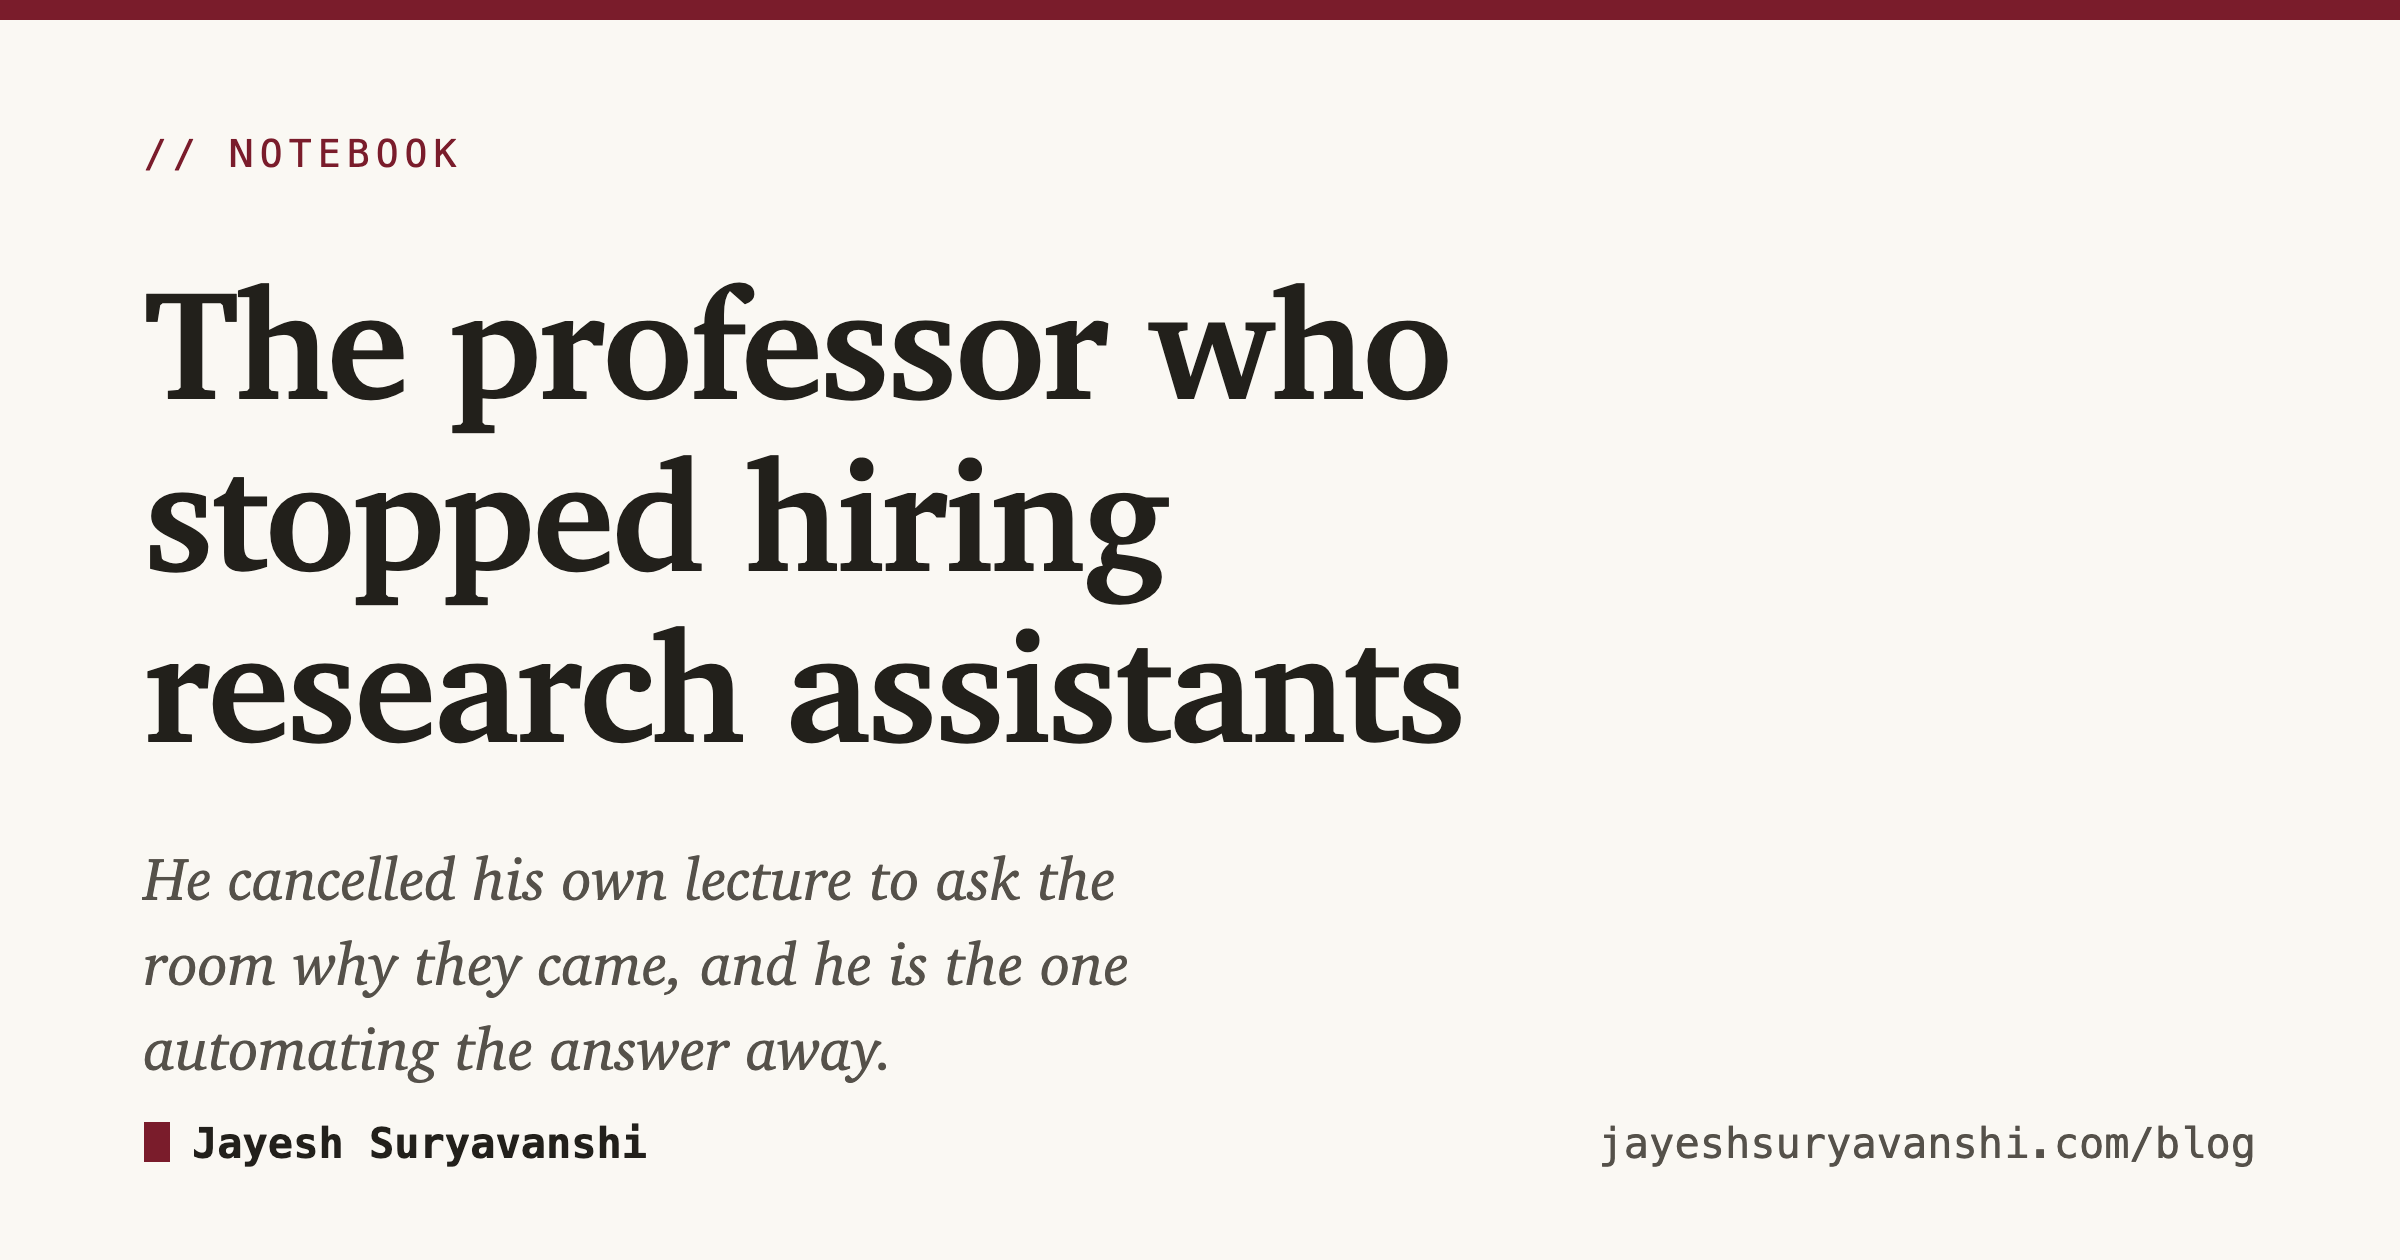
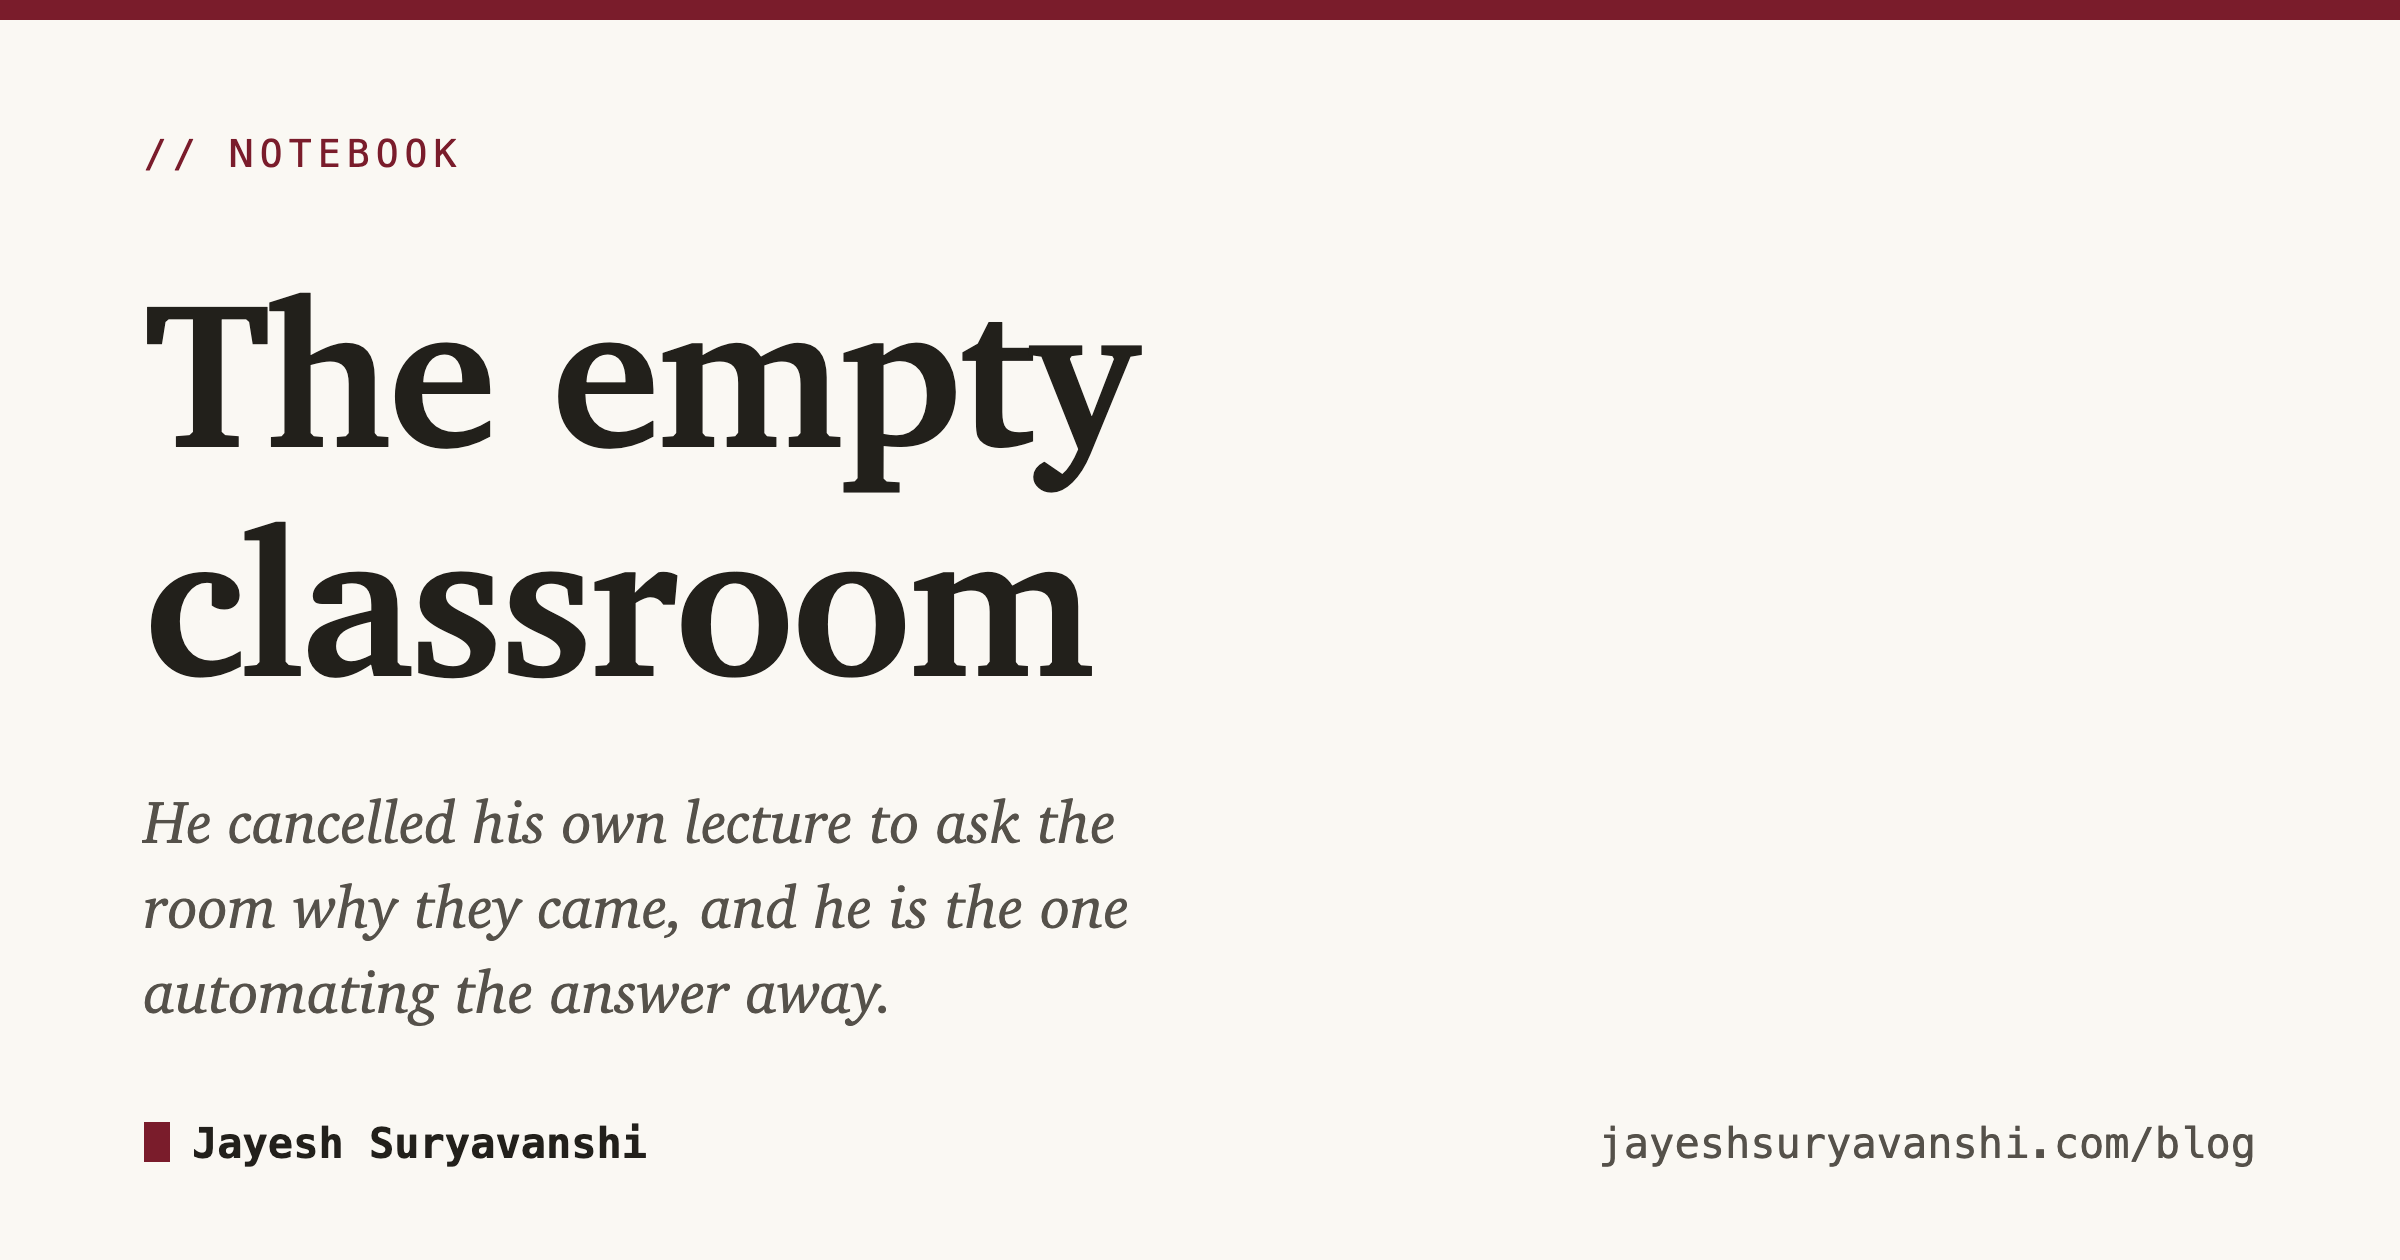
Writing: retitle the Notebook post to The empty classroom
Swaps h1, page title, og/twitter tags, schema headline, index card and
both feed entries, and re-renders the share card. The URL slug stays as
it is so the published link and feed guids keep working.

Changed region(s): [[0.0625, 0.2167, 0.625, 0.5881], [0.0625, 0.619, 0.4688, 0.8667]]

diff --git a/blog/stopped-hiring-research-assistants.html b/blog/stopped-hiring-research-assistants.html
@@ -2,7 +2,7 @@
 <html lang="en">
 <head>
   <meta charset="utf-8">
-  <title>The professor who stopped hiring research assistants · Jayesh Suryavanshi</title>
+  <title>The empty classroom · Jayesh Suryavanshi</title>
   <meta name="description" content="A deep learning professor at IISc Bangalore put down his prepared lecture and spent the hour asking his students why they still come to class. He is also the one automating the answer away: no more research assistants, his own learning moved to an LLM, and a skill on his company's marketplace built to teach in his voice.">
   <meta name="author" content="Jayesh Suryavanshi">
   <link rel="canonical" href="https://www.jayeshsuryavanshi.com/blog/stopped-hiring-research-assistants.html">
@@ -10,18 +10,18 @@
   <meta property="og:type" content="article">
   <meta property="og:url" content="https://www.jayeshsuryavanshi.com/blog/stopped-hiring-research-assistants.html">
   <meta property="og:site_name" content="Jayesh Suryavanshi">
-  <meta property="og:title" content="The professor who stopped hiring research assistants">
+  <meta property="og:title" content="The empty classroom">
   <meta property="og:description" content="A professor cancels his own lecture to ask his class why they came, and turns out to be the one automating the answer away. Why the alarm is worth more coming from the people building it, not less.">
   <meta property="og:image" content="https://www.jayeshsuryavanshi.com/images/og-research-assistants.png">
   <meta property="og:image:width" content="2400">
   <meta property="og:image:height" content="1260">
-  <meta property="og:image:alt" content="The professor who stopped hiring research assistants, a notebook entry by Jayesh Suryavanshi">
+  <meta property="og:image:alt" content="The empty classroom, a notebook entry by Jayesh Suryavanshi">
   <meta property="article:published_time" content="2026-09-18">
 
   <meta name="twitter:card" content="summary_large_image">
   <meta name="twitter:site" content="@2jayesh3">
   <meta name="twitter:creator" content="@2jayesh3">
-  <meta name="twitter:title" content="The professor who stopped hiring research assistants">
+  <meta name="twitter:title" content="The empty classroom">
   <meta name="twitter:description" content="A professor cancels his own lecture to ask his class why they came, and turns out to be the one automating the answer away.">
   <meta name="twitter:image" content="https://www.jayeshsuryavanshi.com/images/og-research-assistants.png">
 
@@ -35,7 +35,7 @@
   {
     "@context": "https://schema.org",
     "@type": "BlogPosting",
-    "headline": "The professor who stopped hiring research assistants",
+    "headline": "The empty classroom",
     "description": "A deep learning professor at IISc cancels his own lecture to ask his students why they still come, and turns out to be one of the people automating the answer away.",
     "image": "https://www.jayeshsuryavanshi.com/images/og-research-assistants.png",
     "datePublished": "2026-09-18",
@@ -64,7 +64,7 @@
 
     <article>
       <p class="kicker">Notebook</p>
-      <h1 class="title">The professor who stopped hiring research assistants</h1>
+      <h1 class="title">The empty classroom</h1>
       <p class="dek">A deep learning professor at IISc put down his prepared lecture and spent the hour asking his students why they still come. The part worth watching is that he is also one of the people automating the answer away.</p>
       <div class="byline">
         <span>By <strong>Jayesh Suryavanshi</strong></span>

diff --git a/blog/index.html b/blog/index.html
@@ -43,7 +43,7 @@
       <li>
         <a class="card" href="stopped-hiring-research-assistants.html">
           <div class="p-meta">Notebook · Sep 2026</div>
-          <h2 class="p-title">The professor who stopped hiring research assistants</h2>
+          <h2 class="p-title">The empty classroom</h2>
           <p class="p-dek">A deep learning professor at IISc put down his prepared lecture and spent the hour asking his students why they still come to class. He is also the one automating the answer away: no research assistants, his own learning moved to an LLM, and a skill on his company&rsquo;s marketplace built to teach in his voice. The alarm is worth more coming from a builder, not less.</p>
         </a>
       </li>
